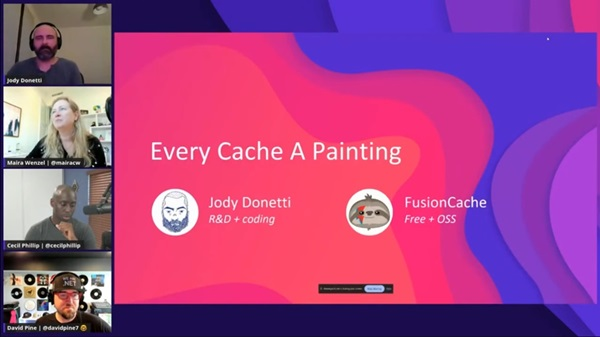
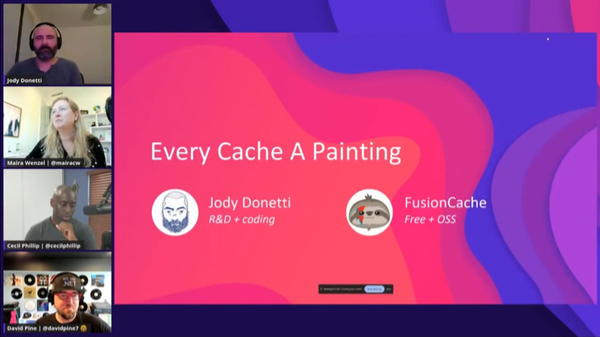
Changes

diff --git a/README.md b/README.md
@@ -28,7 +28,7 @@ Maybe you'll find find them useful.
 
 
 
-### NDC Copenhagen (2025)
+### 📺 NDC Copenhagen (2025)
 
 I've finally been at an NDC conference, and what can I say? That has been a spectacular experience.
 
@@ -38,7 +38,7 @@ Video should be available later, but for now: slides!
 
 <div align="center">
 
-![NTK 2025](images/ndc-copenhagen-2025.jpg)
+![NTK 2025](images/ndc-copenhagen-2025-small.jpg)
 
 </div>
 
@@ -46,7 +46,7 @@ Video should be available later, but for now: slides!
 
 
 
-### NTK (2025)
+### 📺 NTK (2025)
 
 The fine folks at NTK in Slovenia have been so nice to invite me for a session on hybrid caching.
 
@@ -56,7 +56,7 @@ No video this time, but slides are available.
 
 <div align="center">
 
-![NTK 2025](images/ntk-2025.jpg)
+![NTK 2025](images/ntk-2025-small.jpg)
 
 </div>
 
@@ -64,7 +64,7 @@ No video this time, but slides are available.
 
 
 
-### On .NET (2025)
+### 📺 On .NET (2025)
 
 Here we go again: [On .NET](https://learn.microsoft.com/en-us/shows/on-net/) hosted me for a "one year later" episode.
 
@@ -76,14 +76,14 @@ Spoiler: a lot!
 
 <div align="center">
 
-[![On .NET Talk 2025](images/on-dotnet-2025.jpg)](https://www.youtube.com/watch?v=3eZCtQSq9g4)
+[![On .NET Talk 2025](images/on-dotnet-2025-small.jpg)](https://www.youtube.com/watch?v=3eZCtQSq9g4)
 
 </div>
 
 
 
 
-### On .NET (2024)
+### 📺 On .NET (2024)
 
 The fine folks at [On .NET](https://learn.microsoft.com/en-us/shows/on-net/) have been kind enough to invite me on the show and listen to me mumbling random caching stuff.
 
@@ -91,14 +91,14 @@ This is a very good introduction on the general approach and features of FusionC
 
 <div align="center">
 
-[![On .NET Talk](images/on-dotnet.jpg)](https://www.youtube.com/watch?v=hCswI2goi7s)
+[![On .NET Talk](images/on-dotnet-small.jpg)](https://www.youtube.com/watch?v=hCswI2goi7s)
 
 </div>
 
 
 
 
-### Open At Microsoft (2024)
+### 📺 Open At Microsoft (2024)
 
 In this quick talk with [Davide Mauri](https://twitter.com/mauridb) we introduced FusionCache to the audience of Open at Microsoft.
 
@@ -106,14 +106,14 @@ Quick and to the point.
 
 <div align="center">
 
-[![Open At Microsoft Talk](images/open-at-microsoft.jpg)](https://www.youtube.com/watch?v=wGKSNqxN4KE)
+[![Open At Microsoft Talk](images/open-at-microsoft-small.jpg)](https://www.youtube.com/watch?v=wGKSNqxN4KE)
 
 </div>
 
 
 
 
-### Data Exposed (2022)
+### 📺 Data Exposed (2022)
 
 The great [Anna Hoffman](https://twitter.com/analyticanna) has been so nice to listen to me mumble random stuff about caching on [Data Exposed](https://learn.microsoft.com/en-us/shows/data-exposed/caching-made-easy-in-azure-sql-db-with-fusioncache-data-exposed).
 
@@ -121,7 +121,7 @@ Thanks Anna!
 
 <div align="center">
 
-[![Data Exposed Talk](images/data-exposed.jpg)](https://www.youtube.com/watch?v=V2fCUoJgVAo)
+[![Data Exposed Talk](images/data-exposed-small.jpg)](https://www.youtube.com/watch?v=V2fCUoJgVAo)
 
 </div>
 
@@ -138,33 +138,33 @@ Thanks Anna!
 
 
 
-### Live Coding - Alla Scoperta Di FusionCache (2025)
+### 📺 Live Coding - Alla Scoperta Di FusionCache (2025)
 
 Marco Minerva invited me for a talk with his viewers on all things FusionCache.
 
 <div align="center">
 
-[![Live Coding - Alla Scoperta Di FusionCache Talk](images/live-coding-alla-scoperta-di-fusioncache.jpg)](https://www.youtube.com/live/tj6w4V_cGRo)
+[![Live Coding - Alla Scoperta Di FusionCache Talk](images/live-coding-alla-scoperta-di-fusioncache-small.jpg)](https://www.youtube.com/live/tj6w4V_cGRo)
 
 </div>
 
 
 
 
-### DotNetConf Italia (2024)
+### 📺 DotNetConf Italia (2024)
 
-I've been lucky enough to be selected for a session at the italian version of DotNetConf, where I talked about, you guessed it, hybrid caching in .NET
+I've been lucky enough to be selected for a session at the italian version of DotNetConf, where I talked about hybrid caching in .NET, as you may have already guessed.
 
 <div align="center">
 
-[![DotNetConf Italia 2024](images/dotnetconf-italia.jpg)](https://www.improove.tech/videos/3593/Hybrid-Caching-in-NET)
+[![DotNetConf Italia 2024](images/dotnetconf-italia-small.jpg)](https://www.improove.tech/videos/3593/Hybrid-Caching-in-NET)
 
 </div>
 
 
 
 
-### Continuous Delivery (2024)
+### 📺 Continuous Delivery (2024)
 
 The fine folks at Continuous Delivery (by [SparkFabrik](https://www.sparkfabrik.com/it/)) invited me to talk about my experience with open source in general, and FusionCache in particular.
 
@@ -172,14 +172,14 @@ Oh, and also about Genziana and arrosticini 🙂
 
 <div align="center">
 
-[![Continuous Delivery Talk](images/continuous-delivery.jpg)](https://www.youtube.com/watch?v=E6PBkalmUn8)
+[![Continuous Delivery Talk](images/continuous-delivery-small.jpg)](https://www.youtube.com/watch?v=E6PBkalmUn8)
 
 </div>
 
 
 
 
-### Spike Time (2024)
+### 📺 Spike Time (2024)
 
 [Alberto Mori](https://twitter.com/albx87) invited me on his Spike Time, where I've been able to see him move his first steps with FusionCache, live, unfiltered. A really nice experience that also ended up making FusionCache even better.
 
@@ -187,14 +187,14 @@ Thanks Alberto!
 
 <div align="center">
 
-[![Spike Time Talk](images/spike-time.jpg)](https://www.youtube.com/watch?v=hvcHIEXzaWM)
+[![Spike Time Talk](images/spike-time-small.jpg)](https://www.youtube.com/watch?v=hvcHIEXzaWM)
 
 </div>
 
 
 
 
-### Small Talks (2022)
+### 📺 Small Talks (2022)
 
 The great [Roberto Messora](https://twitter.com/robymes) invited me to UgiDotNet's show Small Talks: of course the subject was FusionCache and caching in general.
 
@@ -202,14 +202,14 @@ Thanks Roberto!
 
 <div align="center">
 
-[![Small Talks Talk](images/small-talks.jpg)](https://www.youtube.com/watch?v=DovOX0zIuJ8)
+[![Small Talks Talk](images/small-talks-small.jpg)](https://www.youtube.com/watch?v=DovOX0zIuJ8)
 
 </div>
 
 
 
 
-### dotNET{podcast} (2022)
+### 📺 dotNET{podcast} (2022)
 
 The awesome [Mauro Servienti](https://twitter.com/mauroservienti) invited me to his podcast to talk about FusionCache.
 
@@ -217,7 +217,7 @@ It has been a really nice talk about all things caching, thanks Mauro!
 
 <div align="center">
 
-[![dotNET{podcast} Talk](images/dotnet-podcast.jpg)](https://www.youtube.com/watch?v=TdPFULPDq-Y)
+[![dotNET{podcast} Talk](images/dotnet-podcast-small.jpg)](https://www.youtube.com/watch?v=TdPFULPDq-Y)
 
 </div>
 
